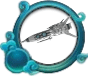
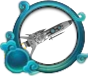
第四关的科技做好了
黑洞把敌人的城堡一下子灭掉了，第四关的科技不知道多少钱

Changed region(s): [[0.2045, 0.1842, 0.8864, 0.7632], [0.0455, 0.7105, 0.0682, 0.7895]]

diff --git a/src/ui/button/ButtonScience.java b/src/ui/button/ButtonScience.java
@@ -22,6 +22,9 @@ import Tech.Tech_STG2_TruckReinforce;
 import Tech.Tech_STG3_HydrogenBomb;
 import Tech.Tech_STG3_SecondCastle;
 import Tech.Tech_STG3_SuperComputer;
+import Tech.Tech_STG4_BlackHoleProject;
+import Tech.Tech_STG4_Faith;
+import Tech.Tech_STG4_FourthTechRevolution;
 import dataBase.DataBase;
 
 public class ButtonScience extends JPanel implements MouseListener{
@@ -42,6 +45,7 @@ public class ButtonScience extends JPanel implements MouseListener{
 		case 1:this.setBounds(410+(kind-1)*70, 80, 60, 60);break;
 		case 2:this.setBounds(410+(kind-4)*70, 80, 60, 60);break;
 		case 3:this.setBounds(410+(kind-9)*70, 80, 60, 60);break;
+		case 4:this.setBounds(410+(kind-13)*70, 80, 60, 60);break;
 		}
 	}
 	
@@ -165,7 +169,29 @@ public class ButtonScience extends JPanel implements MouseListener{
 				DataBase.Money -= DataBase.Tech_HydrogenBomb_P;
 			}
 	
-			break;	
+			break;
+			/**
+			 * WARNING :I don't know the price!!
+			 */
+		case 15:
+			if(!DataBase.Tech_BlackHoleProject&&(DataBase.Money-DataBase.Tech_HydrogenBomb_P>=0)){
+				new Tech_STG4_BlackHoleProject();
+				DataBase.Money -= DataBase.Tech_HydrogenBomb_P;
+			}
+			break;
+		case 13:
+			if(!DataBase.Tech_Faith&&(DataBase.Money-DataBase.Tech_HydrogenBomb_P>=0)){
+				new Tech_STG4_Faith();
+				DataBase.Money -= DataBase.Tech_HydrogenBomb_P;
+			}
+			break;
+		case 14:
+			if(!DataBase.Tech_FourthTechRevolution&&(DataBase.Money-DataBase.Tech_HydrogenBomb_P>=0)){
+				new Tech_STG4_FourthTechRevolution();
+				DataBase.Money -= DataBase.Tech_HydrogenBomb_P;
+			}
+			break;
+			
 		}
 	}
 

diff --git a/src/tools/DrawUnits.java b/src/tools/DrawUnits.java
@@ -24,6 +24,7 @@ import units.SpaceMan;
 import units.SpaceShip;
 import units.SwordMan;
 import units.Truck;
+import Tech.Object_BlackHole;
 import dataBase.DataBase;
 
 public class DrawUnits {
@@ -85,6 +86,9 @@ public class DrawUnits {
 					break;
 				case 15:
 					drawSneaker(g, (Sneaker) DataBase.playerList.get(i));
+					break;
+				case 102:
+					drawBlackHole(g, (Object_BlackHole) DataBase.playerList.get(i));
 					break;
 				default:
 					drawCastle(g, (Castle) DataBase.playerList.get(i));
@@ -906,6 +910,26 @@ public class DrawUnits {
 			g.setColor(Color.RED);
 			g.fill3DRect(o.getX()+lifePercentage, o.getY()+o.ran-10, 40-lifePercentage, 3, false);
 	    }
+    }
+    /**
+     * draw black hole
+     */
+    private static void drawBlackHole(Graphics g,Object_BlackHole o){
+    	Image hole = new ImageIcon("graphics/soldiers/s4/blackhole.png").getImage();
+		if(o.moving){
+			if(!DataBase.isPause){
+				hole = new ImageIcon("graphics/soldiers/s4/blackhole.png").getImage();
+			}else{
+				hole = new ImageIcon("graphics/soldiers/s4/blackhole.png").getImage();
+			}
+		}else if(o.attacking){
+			if(!DataBase.isPause){
+				hole = new ImageIcon("graphics/soldiers/s4/blackhole.png").getImage();
+			}else{
+				hole = new ImageIcon("graphics/soldiers/s4/blackhole.png").getImage();
+			}
+		}
+		g.drawImage(hole,o.getX(), o.getY()+o.ran, 200, 200, panel);
     }
     /**
 	 * draw castle

diff --git a/src/Tech/Tech_STG4_BlackHoleProject.java b/src/Tech/Tech_STG4_BlackHoleProject.java
@@ -7,6 +7,8 @@ public class Tech_STG4_BlackHoleProject {
 		if(DataBase.Tech_FourthTechRevolution = true){
 			DataBase.Tech_BlackHoleProject = true;
 			Object_BlackHole bh = new Object_BlackHole();
+			bh.setKind(1);
+			DataBase.playerList.add(bh);
 			Thread th = new Thread(bh);
 			th.start();
 		}

diff --git a/src/ui/PanelFight.java b/src/ui/PanelFight.java
@@ -132,6 +132,7 @@ public class PanelFight extends JPanel implements Runnable{
 		case 1:break;	
 		case 2:begin = 4; end = 9; break;
 		case 3:begin = 9; end = 13;break;
+		case 4:begin = 13; end = 16;break;
 		}
 		//use 'for' to create science button
 		for(int i = begin; i < end; i++){

diff --git a/src/Tech/Object_BlackHole.java b/src/Tech/Object_BlackHole.java
@@ -12,7 +12,7 @@ public class Object_BlackHole extends Soldier{
 		hp = 100000000;
 		attack = 10000000;
 		attackRange = 300;
-		this.setType(101);
+		this.setType(102);
 	}
 	@Override
 	public void run() {
